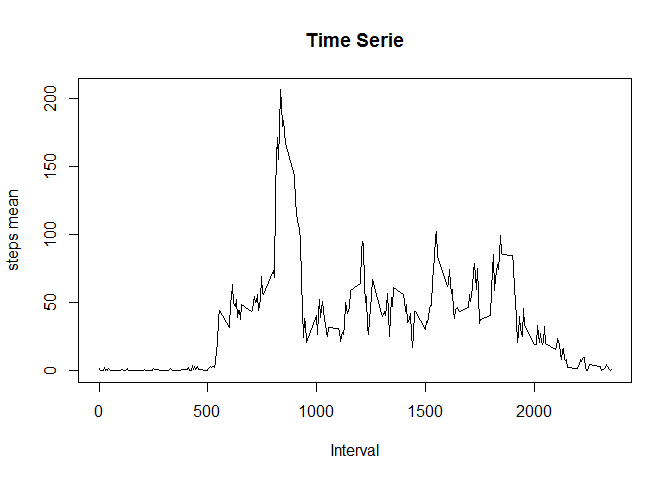
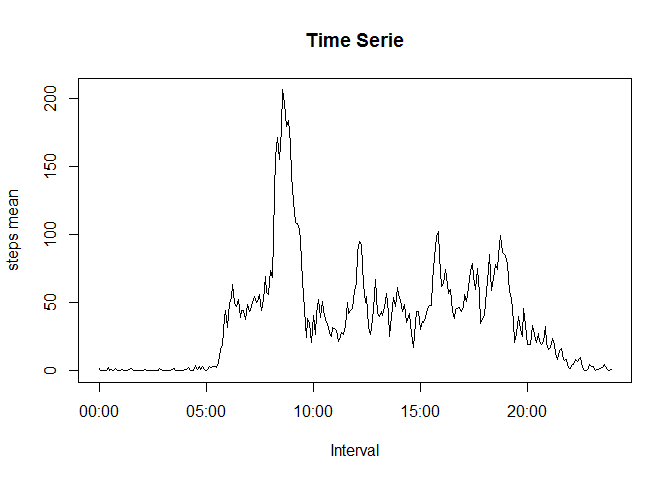
PA files

diff --git a/PA1_template.html b/PA1_template.html
@@ -66,8 +66,26 @@ img {
 
 <div id="loading-and-preprocessing-the-data" class="section level2">
 <h2>Loading and preprocessing the data</h2>
-<pre class="r"><code>data &lt;- read.csv(&quot;activity.csv&quot;)
-data$date&lt;-as.Date(data$date)</code></pre>
+<pre class="r"><code>data &lt;- read.csv(&quot;activity.csv&quot;) #reading data
+data$date&lt;-as.Date(data$date)    #convert date as Date type
+
+head(data,5)                     #Show first 5 rows </code></pre>
+<pre><code>##   steps       date interval
+## 1    NA 2012-10-01        0
+## 2    NA 2012-10-01        5
+## 3    NA 2012-10-01       10
+## 4    NA 2012-10-01       15
+## 5    NA 2012-10-01       20</code></pre>
+<pre class="r"><code>#Format interval to HH:MM format
+data$interval&lt;-sprintf(&quot;%04d&quot;,data$interval) #convert 4 character long and filling with 0
+#data$interval&lt;-strptime(data$interval,&quot;%H%M&quot;)#formatting to HH:MM
+head(data,5)</code></pre>
+<pre><code>##   steps       date interval
+## 1    NA 2012-10-01     0000
+## 2    NA 2012-10-01     0005
+## 3    NA 2012-10-01     0010
+## 4    NA 2012-10-01     0015
+## 5    NA 2012-10-01     0020</code></pre>
 </div>
 <div id="what-is-mean-total-number-of-steps-taken-per-day" class="section level2">
 <h2>What is mean total number of steps taken per day?</h2>
@@ -91,13 +109,14 @@ abline(v=pmedian,col=&quot;black&quot;,lty=4)</code></pre>
 </div>
 <div id="what-is-the-average-daily-activity-pattern" class="section level2">
 <h2>What is the average daily activity pattern?</h2>
-<p>The time seriebelow shows a peak around 800 interval, meaning the number of steps on that interval is higher than the average steps. Between 1000 and 1500 intervals the oscilation of number steps have a constant variation (down and up).</p>
+<p>The time seriebelow shows a peak around 8:00 interval, meaning the number of steps on that interval is higher than the average steps. Between 10:00 and 15:00 intervals the oscilation of number steps have a constant variation (down and up).</p>
 <pre class="r"><code>time_mean&lt;-aggregate(steps ~ interval, data = data, mean)
+time_mean$interval&lt;-as.POSIXct(strptime(time_mean$interval,&quot;%H%M&quot;))#formatting to HH:MM
 plot(time_mean$interval, time_mean$steps, type=&quot;l&quot;,xlab=&quot;Interval&quot;,ylab=&quot;steps mean&quot;,main=&quot;Time Serie&quot;)</code></pre>
[2 lines of base64/hex data omitted]
 <pre class="r"><code>int_max&lt;-aggregate(steps ~ interval, data = data, max)
-print(sprintf(&quot;5-minute interval with the maximum number of steps is %d&quot;,int_max[which.max(int_max$steps),1]))</code></pre>
-<pre><code>## [1] &quot;5-minute interval with the maximum number of steps is 615&quot;</code></pre>
+print(sprintf(&quot;5-minute interval with the maximum number of steps is %s&quot;,int_max[which.max(int_max$steps),1]))</code></pre>
+<pre><code>## [1] &quot;5-minute interval with the maximum number of steps is 0615&quot;</code></pre>
 </div>
 <div id="imputing-missing-values" class="section level2">
 <h2>Imputing missing values</h2>
@@ -112,7 +131,7 @@ new_data[is.na(new_data)] &lt;- pmedian
 #Histogram for new_data
 stepsbydate &lt;-sapply(split(new_data$steps,new_data$date),sum)
 #stepsbydate&lt;-aggregate(steps ~ date, data = new_data, sum)
-hist(stepsbydate,col=&quot;lightblue&quot;,xlab=&quot;Steps by day&quot;,main=&quot;Histogram Steps by Day with NA replaced by median &quot;)</code></pre>
+hist(stepsbydate,breaks=5,col=&quot;lightblue&quot;,xlab=&quot;Steps by day&quot;,main=&quot;Histogram Steps by Day with NA replaced by median &quot;)</code></pre>
[1 lines of base64/hex data omitted]
 <pre class="r"><code>pmean&lt;-mean(stepsbydate)
 pmedian&lt;-median(stepsbydate)
@@ -124,17 +143,32 @@ print(sprintf(&quot;media = %f and meadian = %f total number of steps taken per 
 </div>
 <div id="are-there-differences-in-activity-patterns-between-weekdays-and-weekends" class="section level2">
 <h2>Are there differences in activity patterns between weekdays and weekends?</h2>
-<p>The patterns between weekday and weekend, see plots below, are different. During weekends the behaviour of steps keeps down and up similarly during the all interval and the average of steps are between 1350 and 1450 steps. On the other hand, during weekdays the average of steps stats 1450 and there is peak around 800 interval. Between 1000 and 1500 intervals the oscilation of number of steps on weekdays is lower than on weekends.</p>
+<p>The patterns between weekday and weekend, see plots below, are different. During weekends the behaviour of steps keeps down and up similarly during the all interval and the average of steps are between 1350 and 1450 steps. On the other hand, during weekdays the average of steps stats 1450 and there is peak around 8:00 interval. Between 10:00 and 15:00 intervals the oscilation of number of steps on weekdays is lower than on weekends.</p>
 <pre class="r"><code>#Adding new column to the dataset
 new_data$weekday &lt;- apply(new_data,1,function(row) if (weekdays(as.Date(row[2]), abbreviate = TRUE) %in% c(&quot;Sat&quot;,&quot;Sun&quot;)) as.factor(&quot;weekend&quot;) else as.factor(&quot;weekday&quot;) )
 
 #Groupping weekdad and interval
 grouping_mean&lt;-aggregate(steps ~ weekday+interval, data = new_data, mean)
+grouping_mean$interval&lt;-as.POSIXct(strptime(as.character(grouping_mean$interval), format=&quot;%H%M&quot;),format=&quot;%H%M&quot;)#formatting to HH:MM
 
-#Plotting panel plots
+head(grouping_mean,10) #showing 10 rows</code></pre>
+<pre><code>##    weekday            interval    steps
+## 1  weekday 2015-08-07 00:00:00 1437.356
+## 2  weekend 2015-08-07 00:00:00 1345.625
+## 3  weekday 2015-08-07 00:05:00 1435.733
+## 4  weekend 2015-08-07 00:05:00 1345.625
+## 5  weekday 2015-08-07 00:10:00 1435.489
+## 6  weekend 2015-08-07 00:10:00 1345.625
+## 7  weekday 2015-08-07 00:15:00 1435.511
+## 8  weekend 2015-08-07 00:15:00 1345.625
+## 9  weekday 2015-08-07 00:20:00 1435.422
+## 10 weekend 2015-08-07 00:20:00 1345.625</code></pre>
+<pre class="r"><code>#Plotting panel plots
 library(lattice)
-print(xyplot(steps ~ interval|weekday, data = grouping_mean, layout = c(1, 2),type=&quot;l&quot;))</code></pre>
[1 lines of base64/hex data omitted]
+print(xyplot(steps ~ interval|weekday, data = grouping_mean, 
+             layout = c(1, 2),type=&quot;l&quot;,xlab=&quot;Intervals&quot;
+      ))</code></pre>
[1 lines of base64/hex data omitted]
 </div>
 
 

diff --git a/PA1_template.md b/PA1_template.md
@@ -4,15 +4,42 @@
 ## Loading and preprocessing the data
 
 ```r
-data <- read.csv("activity.csv")
-data$date<-as.Date(data$date)
+data <- read.csv("activity.csv") #reading data
+data$date<-as.Date(data$date)    #convert date as Date type
+
+head(data,5)                     #Show first 5 rows 
+```
+
+```
+##   steps       date interval
+## 1    NA 2012-10-01        0
+## 2    NA 2012-10-01        5
+## 3    NA 2012-10-01       10
+## 4    NA 2012-10-01       15
+## 5    NA 2012-10-01       20
+```
+
+```r
+#Format interval to HH:MM format
+data$interval<-sprintf("%04d",data$interval) #convert 4 character long and filling with 0
+#data$interval<-strptime(data$interval,"%H%M")#formatting to HH:MM
+head(data,5)
+```
+
+```
+##   steps       date interval
+## 1    NA 2012-10-01     0000
+## 2    NA 2012-10-01     0005
+## 3    NA 2012-10-01     0010
+## 4    NA 2012-10-01     0015
+## 5    NA 2012-10-01     0020
 ```
 
 ## What is mean total number of steps taken per day?
 Steps:  
 1. Calculate set of totals number of steps by day and stored in a variable for reuse it.  
-2. Plot an histogram for the set of totals number of steps by day.  
-3. Calculate mean and median for the set of totals number of steps by day.  
+2. Plot an histogram for the set of totals number of steps by day.    
+3. Calculate mean and median for the set of totals number of steps by day.    
 
 The histogram below shows a rigth skewed distribution. The mean and median are similar.
 
@@ -43,11 +70,12 @@ abline(v=pmedian,col="black",lty=4)
 ![](PA1_template_files/figure-html/unnamed-chunk-2-1.png) 
 
 ## What is the average daily activity pattern?
-The time seriebelow shows a peak around 800 interval, meaning the number of steps on that interval is higher than the average steps. Between 1000 and 1500 intervals the oscilation of number steps have a constant variation (down and up).
+The time seriebelow shows a peak around 8:00 interval, meaning the number of steps on that interval is higher than the average steps. Between 10:00 and 15:00 intervals the oscilation of number steps have a constant variation (down and up).
 
 
 ```r
 time_mean<-aggregate(steps ~ interval, data = data, mean)
+time_mean$interval<-as.POSIXct(strptime(time_mean$interval,"%H%M"))#formatting to HH:MM
 plot(time_mean$interval, time_mean$steps, type="l",xlab="Interval",ylab="steps mean",main="Time Serie")
 ```
 
@@ -55,11 +83,11 @@ plot(time_mean$interval, time_mean$steps, type="l",xlab="Interval",ylab="steps m
 
 ```r
 int_max<-aggregate(steps ~ interval, data = data, max)
-print(sprintf("5-minute interval with the maximum number of steps is %d",int_max[which.max(int_max$steps),1]))
+print(sprintf("5-minute interval with the maximum number of steps is %s",int_max[which.max(int_max$steps),1]))
 ```
 
 ```
-## [1] "5-minute interval with the maximum number of steps is 615"
+## [1] "5-minute interval with the maximum number of steps is 0615"
 ```
 
 ## Imputing missing values
@@ -83,7 +111,7 @@ new_data[is.na(new_data)] <- pmedian
 #Histogram for new_data
 stepsbydate <-sapply(split(new_data$steps,new_data$date),sum)
 #stepsbydate<-aggregate(steps ~ date, data = new_data, sum)
-hist(stepsbydate,col="lightblue",xlab="Steps by day",main="Histogram Steps by Day with NA replaced by median ")
+hist(stepsbydate,breaks=5,col="lightblue",xlab="Steps by day",main="Histogram Steps by Day with NA replaced by median ")
 ```
 
 ![](PA1_template_files/figure-html/unnamed-chunk-4-1.png) 
@@ -106,7 +134,7 @@ The histogram above shows that replacing missing data by the median makes the va
 
 ## Are there differences in activity patterns between weekdays and weekends?
 
-The patterns between weekday and weekend, see plots below, are different. During weekends the behaviour of steps keeps down and up similarly during the all interval and the average of steps are between 1350 and 1450 steps. On the other hand, during weekdays the average of steps stats 1450 and there is peak around 800 interval. Between 1000 and 1500 intervals the oscilation of number of steps on weekdays is lower than on weekends.
+The patterns between weekday and weekend, see plots below, are different. During weekends the behaviour of steps keeps down and up similarly during the all interval and the average of steps are between 1350 and 1450 steps. On the other hand, during weekdays the average of steps stats 1450 and there is peak around 8:00 interval. Between 10:00 and 15:00 intervals the oscilation of number of steps on weekdays is lower than on weekends.
 
 
 ```r
@@ -115,10 +143,31 @@ new_data$weekday <- apply(new_data,1,function(row) if (weekdays(as.Date(row[2]),
 
 #Groupping weekdad and interval
 grouping_mean<-aggregate(steps ~ weekday+interval, data = new_data, mean)
+grouping_mean$interval<-as.POSIXct(strptime(as.character(grouping_mean$interval), format="%H%M"),format="%H%M")#formatting to HH:MM
 
+head(grouping_mean,10) #showing 10 rows
+```
+
+```
+##    weekday            interval    steps
+## 1  weekday 2015-08-07 00:00:00 1437.356
+## 2  weekend 2015-08-07 00:00:00 1345.625
+## 3  weekday 2015-08-07 00:05:00 1435.733
+## 4  weekend 2015-08-07 00:05:00 1345.625
+## 5  weekday 2015-08-07 00:10:00 1435.489
+## 6  weekend 2015-08-07 00:10:00 1345.625
+## 7  weekday 2015-08-07 00:15:00 1435.511
+## 8  weekend 2015-08-07 00:15:00 1345.625
+## 9  weekday 2015-08-07 00:20:00 1435.422
+## 10 weekend 2015-08-07 00:20:00 1345.625
+```
+
+```r
 #Plotting panel plots
 library(lattice)
-print(xyplot(steps ~ interval|weekday, data = grouping_mean, layout = c(1, 2),type="l"))
+print(xyplot(steps ~ interval|weekday, data = grouping_mean, 
+             layout = c(1, 2),type="l",xlab="Intervals"
+      ))
 ```
 
 ![](PA1_template_files/figure-html/unnamed-chunk-5-1.png) 
